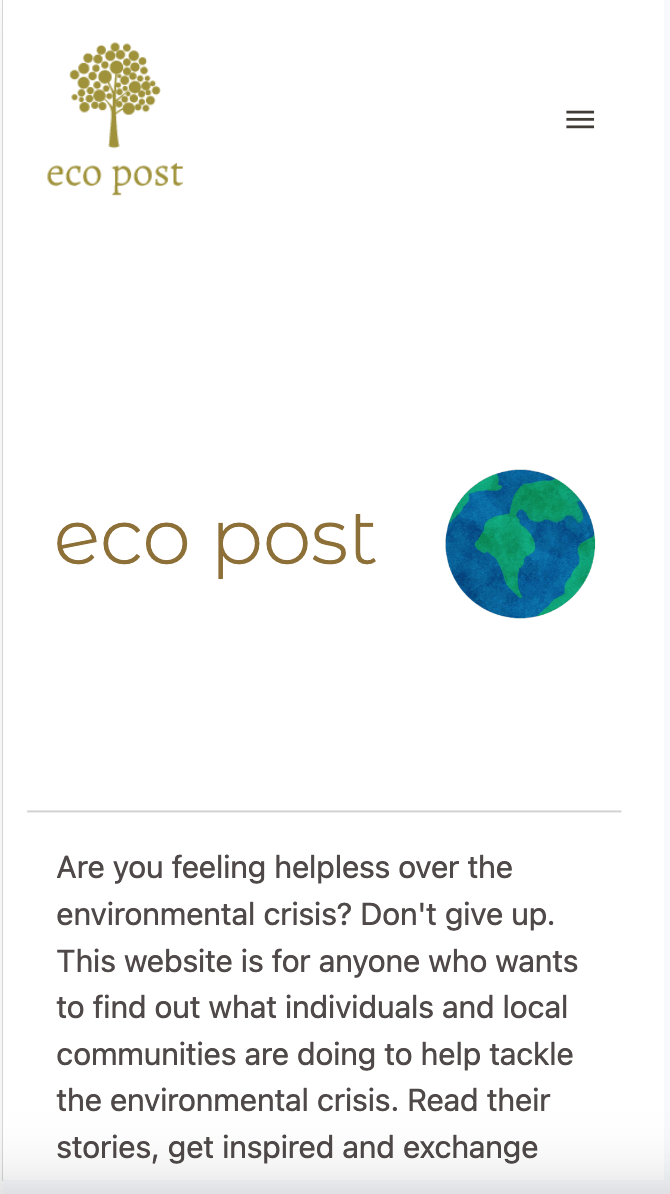
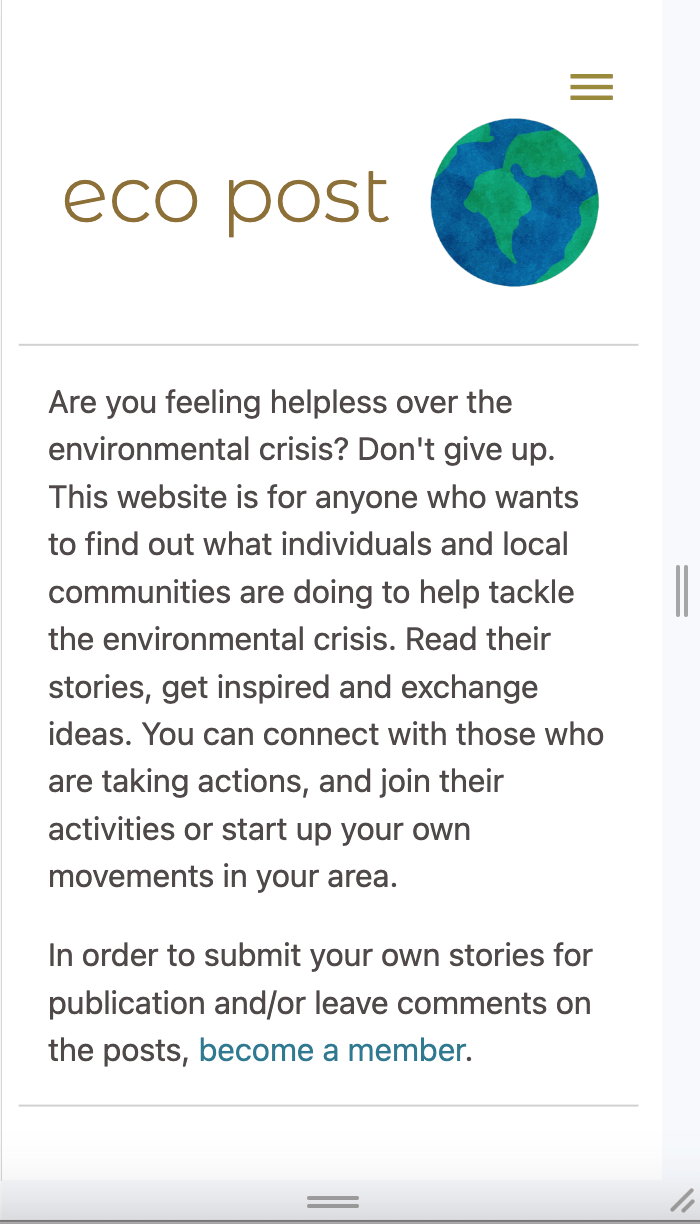
update readme file

diff --git a/README.md b/README.md
@@ -56,22 +56,22 @@ No.|As a… |I can…|so that …|Priority (1 is the highest)|
 |23| user |bookmark posts | I can easily access certain posts later.| 2|
 
 ## Features in a Nutshell:
-Users can see lists of excerpts from
--	featured stories
--	posts published in the previous 7 days
--	most liked stories of all time
--	posts written by them
--	posts commented by them
--	posts bookmarked by them
+- Users can see lists of excerpts from
+1.	featured stories
+2.	posts published in the previous 7 days
+3.	most liked stories of all time
+4.	posts written by them
+5.	posts commented by them
+6.	posts bookmarked by them
 
-Users can read the entire content of published posts<br>
-Users can search stories by title, authors and other factors<br>
-Users can sign up to become members<br>
-Members can like and bookmark posts<br>
-Members can leave comments on the posts<br>
-Members can write their own stories and publish them<br>
-Members can edit and delete comments<br>
-Members can update or delete their posts before publishing them<br>
+- Users can read the entire content of published posts
+- Users can search stories by title, authors and other factors
+- Users can sign up to become members
+- Members can like and bookmark posts
+- Members can leave comments on the posts
+- Members can write their own stories and publish them
+- Members can update and delete their posts 
+- Members can update and delete their comments
 
 ## Wireframes
 Wireframes for the app can be found [here.](https://wireframe.cc/pro/pp/873798723651976)
@@ -92,14 +92,16 @@ The overall appearance is kept simple and clean so as not to interfere with vari
 
 **Logo, Favicon and other graphics**
 - I used a clover for the logo and favicon because it’s a widely liked symbol and is associated with good luck and hope, giving a friendly and positive impression. 
-- I used a graphic of blue and green earth next to the heading, because this graphic is beautiful and improves the appearance of the page
+- I used graphics of colorful leaves as well as a blue and green earth around the page header, because these beautiful graphics improve the appearance of the page.
 
 ## Each Part and Function in Detail
 
 ### Navigation (common to all pages)
 ![nav-bar](./ecopost/documents/media/readme/navigation.png)
-- The logo of the website is located on the left side of the navigation bar. 
-- On the right side, links to other pages are provided.
+- On the left side of the navigation, graphics of leaves are displayed
+- In the middle the heading states the page title.
+- A graphic of the earth is placed on the right side of the page title. 
+- On the right side, navigation links to other pages are provided.
 - Logged-in users will find links to ‘Home,’ ‘Search,’ ‘Write Stories,’ ‘My Page’ and ‘Sign out.
 - Other users will find links to ‘Home,’ ‘Search,’ ‘Become a Member,’ and ‘Sign in.’
 - These terms clearly indicate what these linked pages will present.
@@ -109,11 +111,6 @@ The overall appearance is kept simple and clean so as not to interfere with vari
 - Links to social networks are provided.
 
 ### Home Page
-
-**Heading**<br>
-<img src="./ecopost/documents/media/readme/heading.png" alt="heading" width="400px">
-- The heading at the center states the title of this website ‘ecopost.’
-- A graphic of earth is placed on the right side. 
 
 **Introduction**
 - Below the heading an introductory paragraph explains what the site is for and how to use it.
